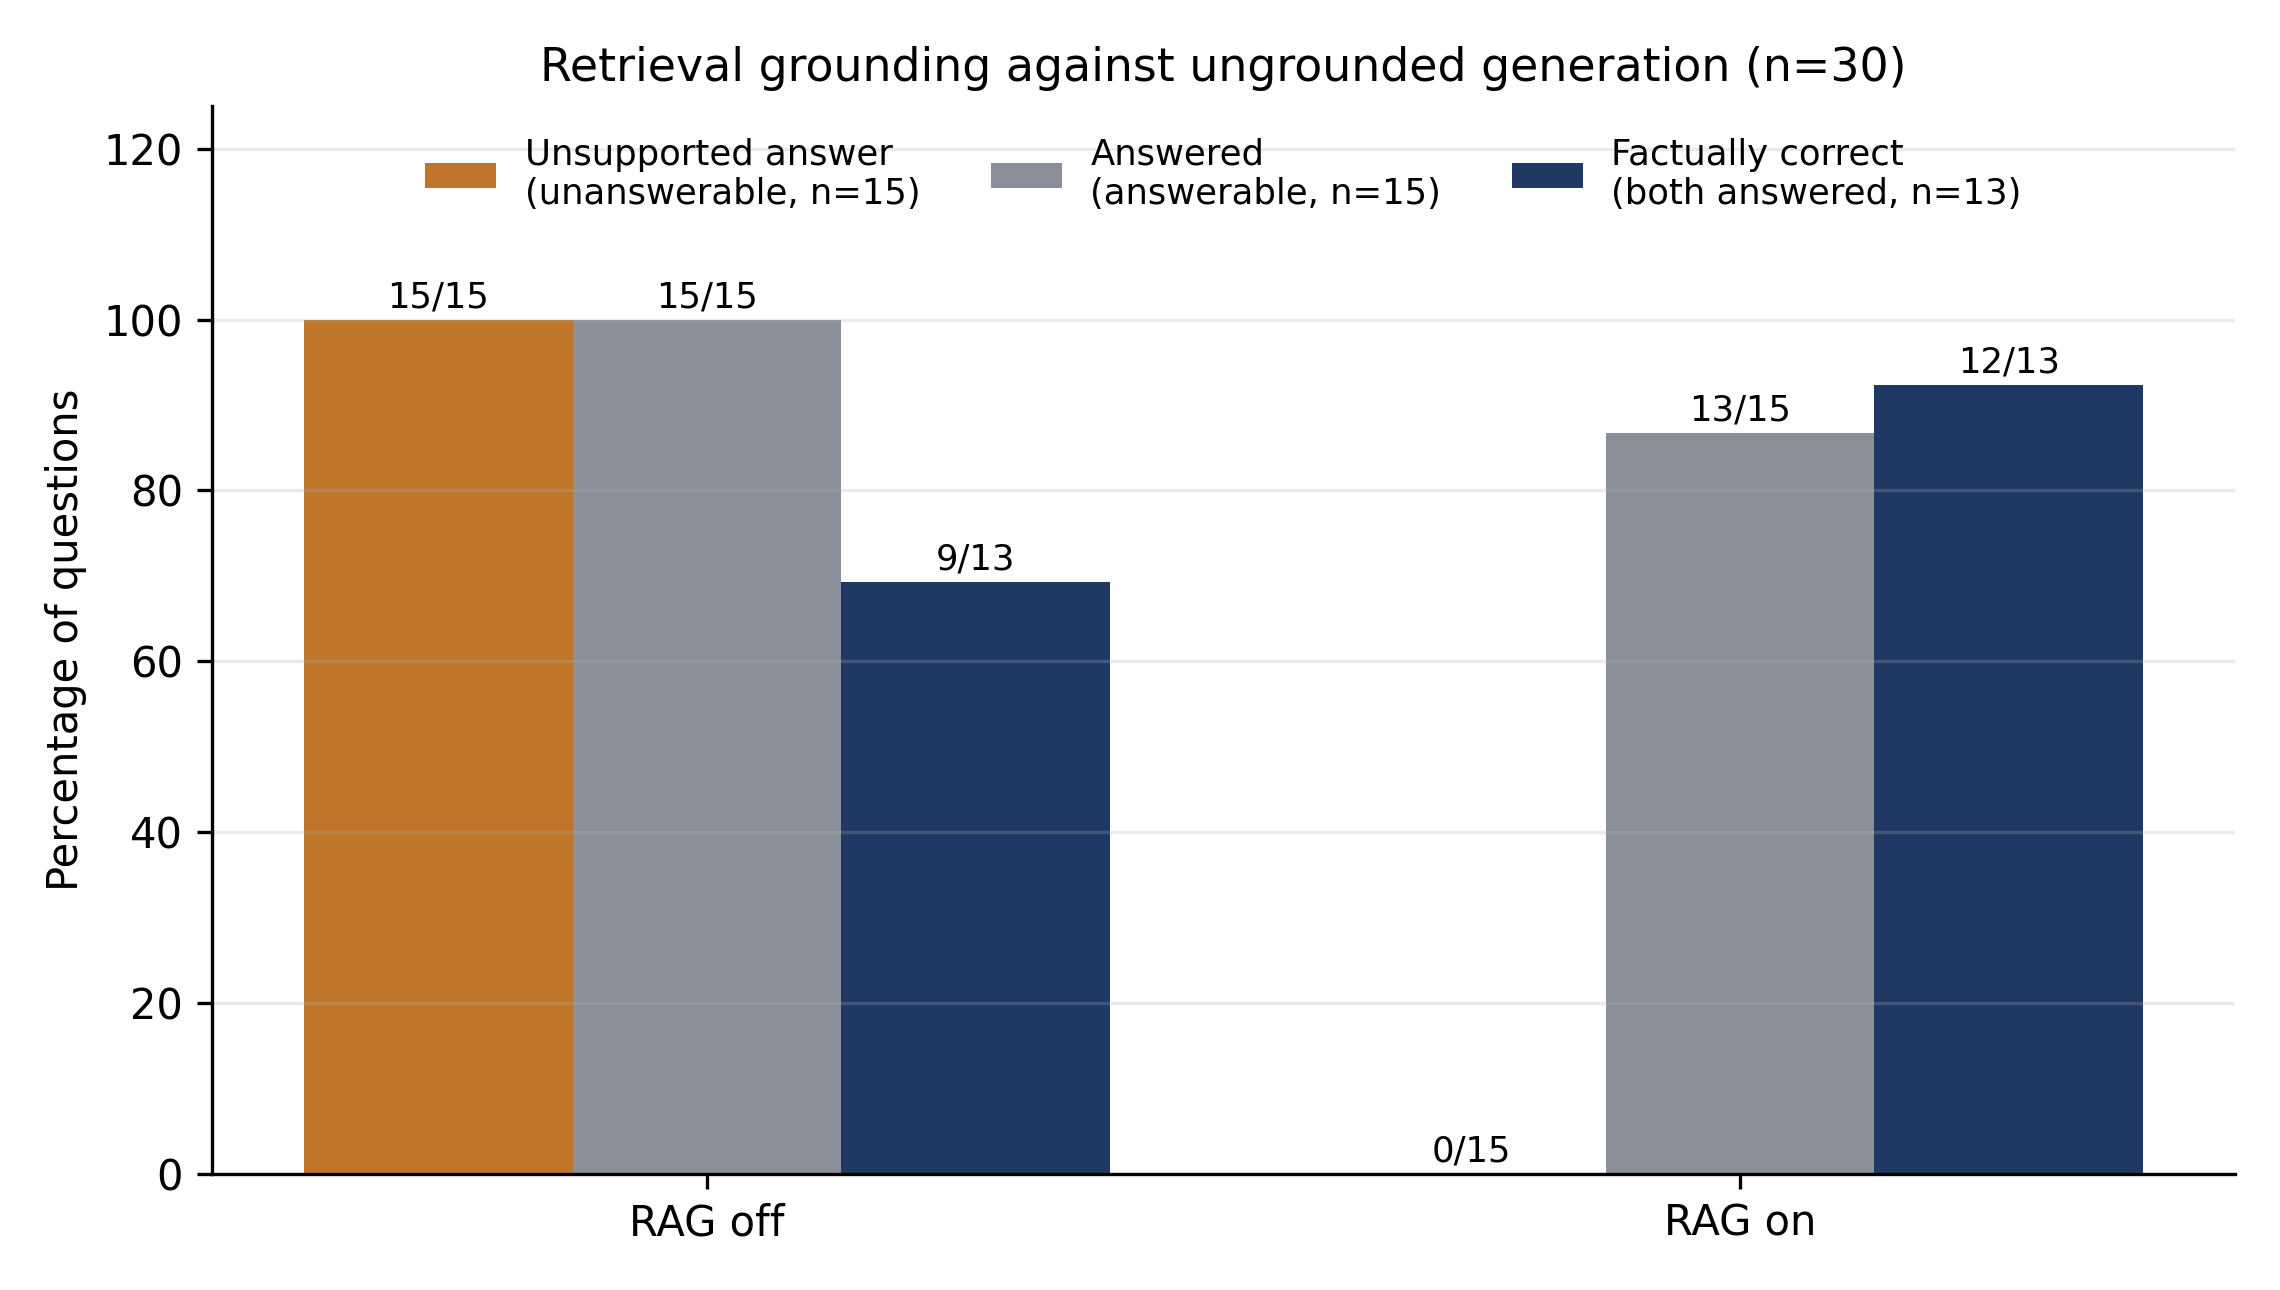
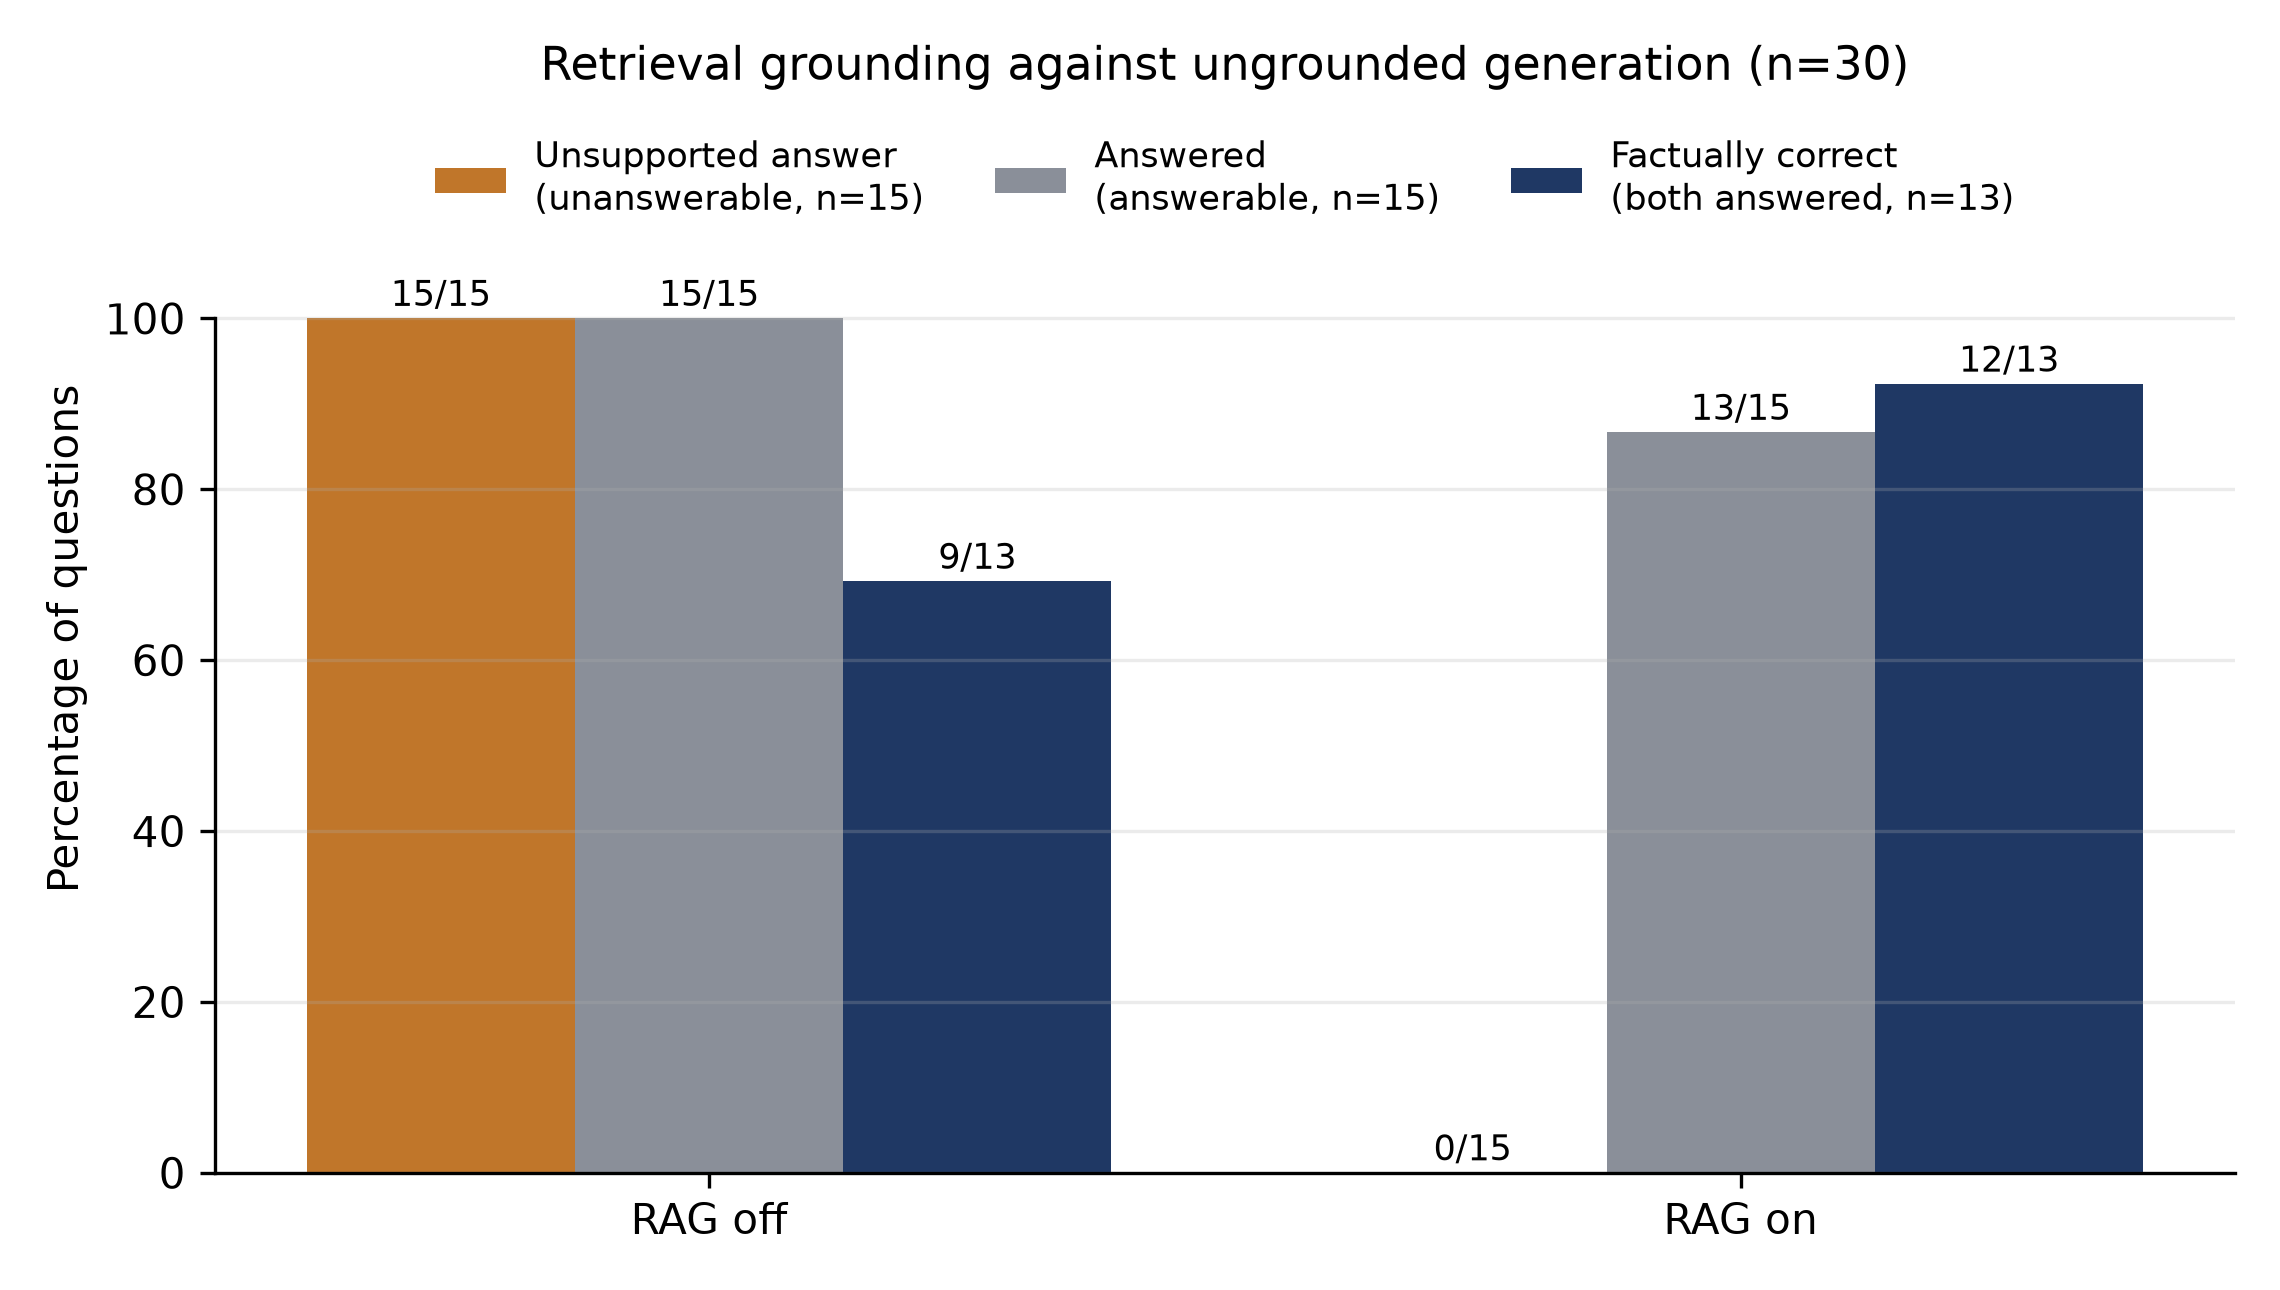
Figures 5.1-5.5: y-axis ticks stop at the maximum possible value

diff --git a/eval/make_figures_v3.py b/eval/make_figures_v3.py
@@ -50,6 +50,12 @@ def is_true(v):
     return str(v).strip().lower() in ("true", "1", "1.0")
 
 
+def cap_axis(ax, top, step):
+    """Ticks stop at the largest possible value (100% or n=15); headroom above is for labels only."""
+    ax.set_yticks(np.arange(0, top + step / 2, step))
+    ax.spines["left"].set_bounds(0, top)
+
+
 def labelled(b, ax, texts):
     for rect, t in zip(b, texts):
         ax.annotate(t, (rect.get_x() + rect.get_width() / 2, rect.get_height()),
@@ -85,6 +91,7 @@ def fig_rag():
     ax.set_xticks(x)
     ax.set_xticklabels(conds)
     ax.set_ylim(0, 125)
+    cap_axis(ax, 100, 20)
     ax.legend(frameon=False, fontsize=8.5, loc="upper center", ncol=3)
     style(ax, "Percentage of questions", "Retrieval grounding against ungrounded generation (n=30)")
     save(fig, "fig5_1_rag_on_off.png")
@@ -143,6 +150,7 @@ def fig_threshold():
     ax1.set_xticks(x)
     ax1.set_xticklabels(conds)
     ax1.set_ylim(0, 18.5)
+    cap_axis(ax1, 15, 3)
     ax1.legend(frameon=False, fontsize=8, loc="upper center", ncol=3)
     style(ax1, "Questions (of 15 per category)", "Outcomes")
 
@@ -157,6 +165,7 @@ def fig_threshold():
     ax2.set_xticks(x)
     ax2.set_xticklabels(conds)
     ax2.set_ylim(0, 22)
+    ax2.set_yticks(np.arange(0, 21, 5))
     ax2.legend(frameon=False, fontsize=8, loc="upper center")
     style(ax2, "Declined responses", "Where declining happens")
     fig.suptitle("Retrieval-confidence threshold on against off", fontsize=11)
@@ -181,6 +190,7 @@ def fig_chunking():
     ax.set_xticks(x)
     ax.set_xticklabels(conds)
     ax.set_ylim(0, 18.5)
+    cap_axis(ax, 15, 3)
     ax.legend(frameon=False, fontsize=8.5, ncol=4, loc="upper center")
     style(ax, "Questions (of 15 per category)", "Fixed-size against sentence-aware chunking")
     save(fig, "fig5_4_chunking_ablation.png")
@@ -208,6 +218,7 @@ def fig_topk():
     ax.set_xlim(0.4, 11.2)
     ax.set_xlabel("k (passages retrieved)")
     ax.set_ylim(-1, 17)
+    cap_axis(ax, 15, 3)
     ax.legend(frameon=False, fontsize=8.5, loc="center right")
     style(ax, "Questions (of 15 per category)", "Effect of k on answer coverage and refusal behaviour")
     save(fig, "fig5_5_topk_sweep.png")
